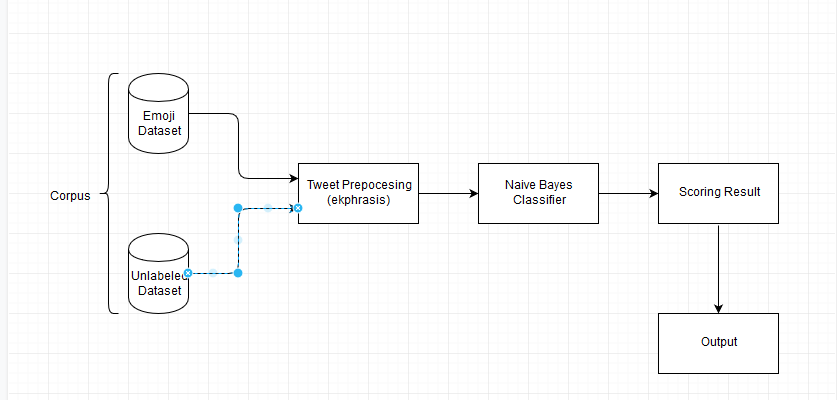
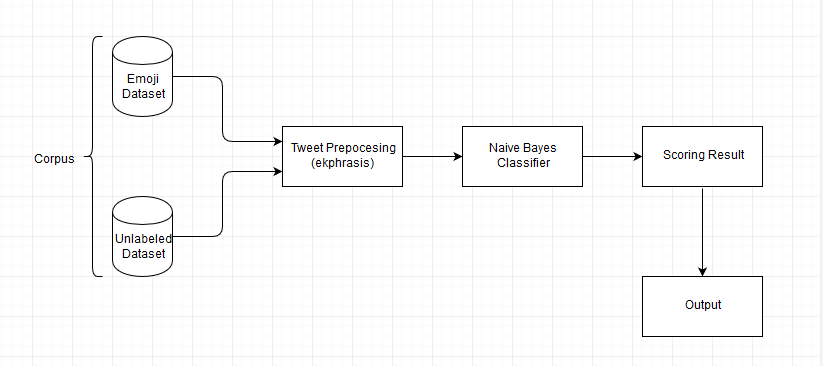
Added diagram architecture

diff --git a/Architecture/architecture.md b/Architecture/architecture.md
@@ -16,5 +16,5 @@ _Multilingual Emoji Predictor_
    For preprocessing and noise reduction we will use the [ekphrasis](https://github.com/cbaziotis/ekphrasis) tool, which can also provide useful insights of some words via annotations (hashtag, allcaps, elongated, repeated, emphasis, censored). We may try to remove _uninteresting_ words (such as connection words) for better results.
 
    * ### Arhitectural diagram
-    ![Diagram](https://github.com/CiprianBodnar/Multilingual-Emoji-Prediction/Architecture/architecture.png?raw=True "Architectural Diagram")
-
+   ![Diagram](architecture.PNG)
+  
